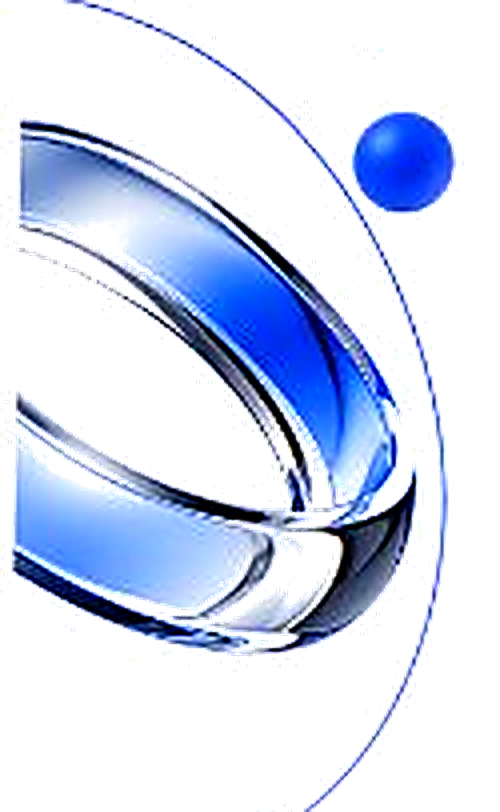
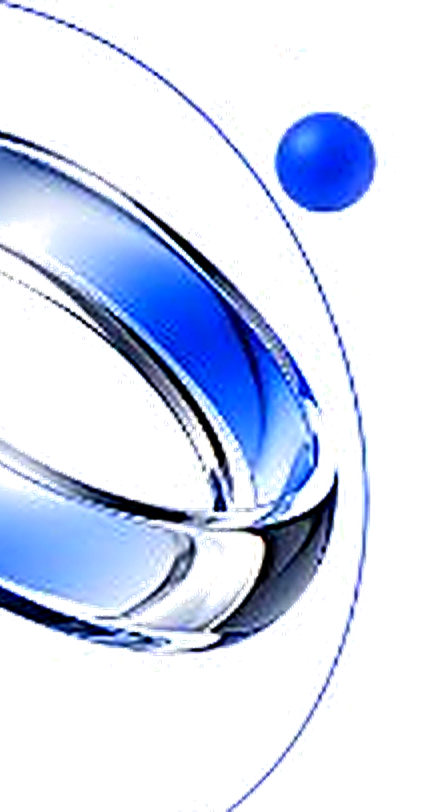
feat: show enquiry popup once per session and align hero side graphics flush to screen edges

diff --git a/src/components/Hero.tsx b/src/components/Hero.tsx
@@ -16,32 +16,32 @@ export default function Hero({ onStartProject }: HeroProps) {
       {/* Background ambient lighting */}
       <div className="absolute top-1/3 left-1/2 -translate-x-1/2 -translate-y-1/2 w-[900px] h-[520px] bg-blue-400/10 rounded-full blur-3xl pointer-events-none -z-10" />
 
-      {/* Left 3D Chrome Torus Floating Artwork (Enhanced high quality, no black box) */}
-      <div className="hidden lg:block absolute left-0 top-8 xl:top-12 w-[130px] xl:w-[190px] 2xl:w-[230px] pointer-events-auto select-none z-10">
-        <div className="animate-float transition-all duration-700 ease-out hover:scale-105 hover:rotate-2 cursor-pointer">
+      {/* Left 3D Chrome Torus Floating Artwork (Enhanced high quality, flush to left edge) */}
+      <div className="hidden lg:block absolute left-0 top-6 xl:top-8 w-[140px] xl:w-[200px] 2xl:w-[240px] pointer-events-auto select-none z-10">
+        <div className="animate-float origin-left transition-all duration-700 ease-out hover:scale-105 cursor-pointer">
           <Image
             src="/images/side_hero_left.png"
             alt="Abstract 3D Chrome Torus Artwork"
-            width={500}
+            width={422}
             height={812}
             priority
             quality={100}
-            className="w-full h-auto object-contain drop-shadow-md"
+            className="w-full h-auto object-contain object-left drop-shadow-md"
           />
         </div>
       </div>
 
-      {/* Right 3D Glassmorphic Interface Floating Artwork (Enhanced high quality, no black box) */}
-      <div className="hidden lg:block absolute right-0 top-8 xl:top-12 w-[140px] xl:w-[210px] 2xl:w-[250px] pointer-events-auto select-none z-10">
-        <div className="animate-float-reverse transition-all duration-700 ease-out hover:scale-105 hover:-rotate-2 cursor-pointer">
+      {/* Right 3D Glassmorphic Interface Floating Artwork (Enhanced high quality, flush to right edge) */}
+      <div className="hidden lg:block absolute right-0 top-6 xl:top-8 w-[150px] xl:w-[220px] 2xl:w-[260px] pointer-events-auto select-none z-10">
+        <div className="animate-float-reverse origin-right transition-all duration-700 ease-out hover:scale-105 cursor-pointer">
           <Image
             src="/images/side_hero_right.png"
             alt="Abstract 3D Glassmorphic Interface Artwork"
-            width={580}
+            width={572}
             height={812}
             priority
             quality={100}
-            className="w-full h-auto object-contain drop-shadow-md"
+            className="w-full h-auto object-contain object-right drop-shadow-md"
           />
         </div>
       </div>

diff --git a/src/app/page.tsx b/src/app/page.tsx
@@ -21,12 +21,21 @@ export default function Home() {
   const [projectModalOpen, setProjectModalOpen] = useState(false);
 
   useEffect(() => {
-    // Show popup smoothly after the home page is displayed
-    const timer = setTimeout(() => {
-      setEnquiryPopupOpen(true);
-    }, 800);
-    return () => clearTimeout(timer);
+    // Only show the enquiry popup once when the website opens, not on every page transition
+    const hasShownPopup = sessionStorage.getItem("duhzine_enquiry_shown");
+    if (!hasShownPopup) {
+      const timer = setTimeout(() => {
+        setEnquiryPopupOpen(true);
+        sessionStorage.setItem("duhzine_enquiry_shown", "true");
+      }, 800);
+      return () => clearTimeout(timer);
+    }
   }, []);
+
+  const handleCloseEnquiry = () => {
+    setEnquiryPopupOpen(false);
+    sessionStorage.setItem("duhzine_enquiry_shown", "true");
+  };
 
   return (
     <main className="min-h-screen bg-[#f4f7ff] text-[#0f172a] relative">
@@ -83,9 +92,9 @@ export default function Home() {
       {/* Auto Welcome & Reload Enquiry Popup */}
       <EnquiryPopup
         isOpen={enquiryPopupOpen}
-        onClose={() => setEnquiryPopupOpen(false)}
+        onClose={handleCloseEnquiry}
         onDiscussProject={() => {
-          setEnquiryPopupOpen(false);
+          handleCloseEnquiry();
           setProjectModalOpen(true);
         }}
       />
